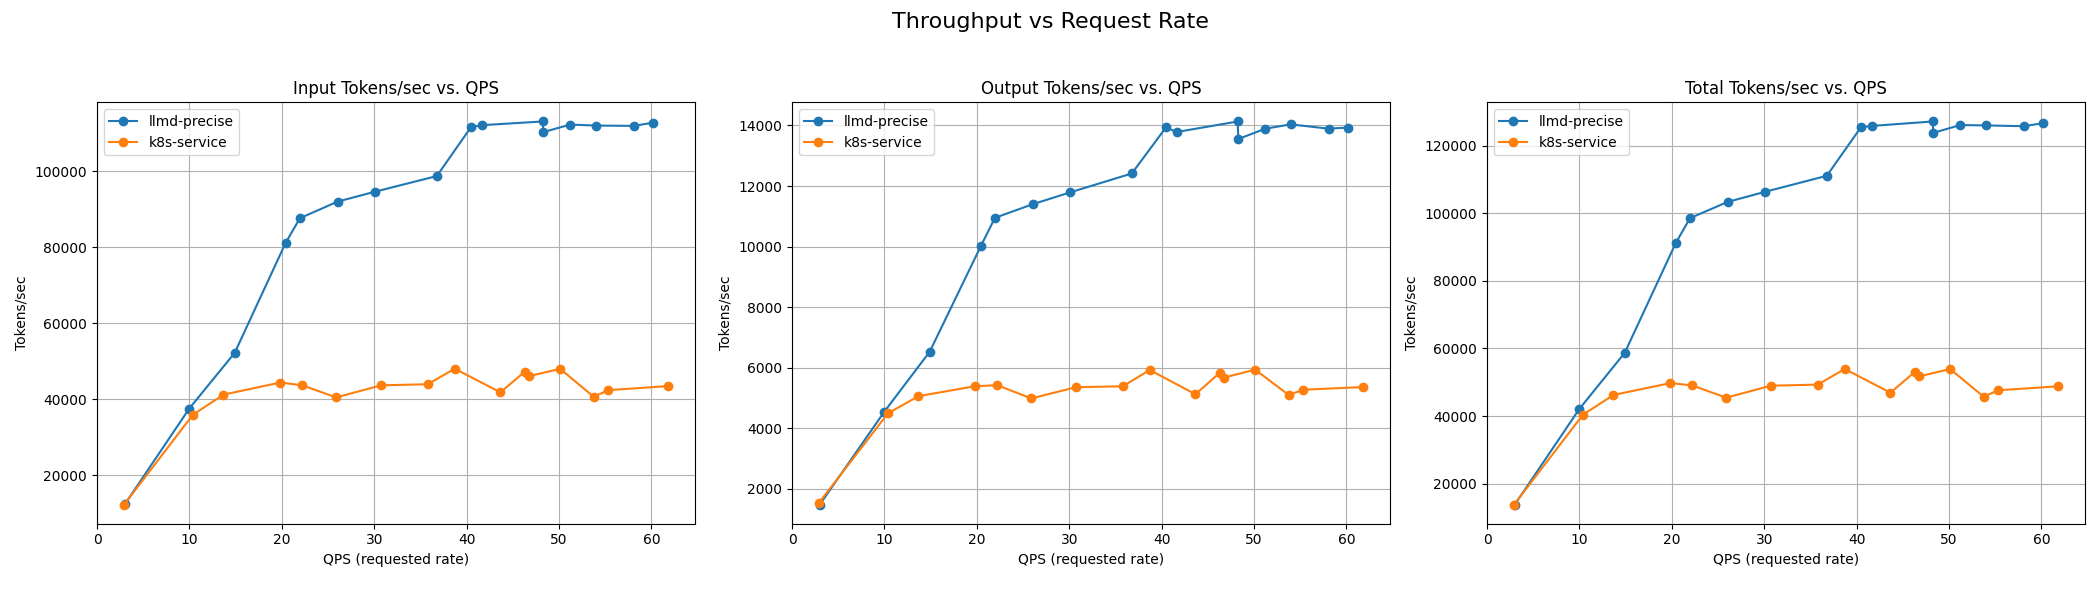
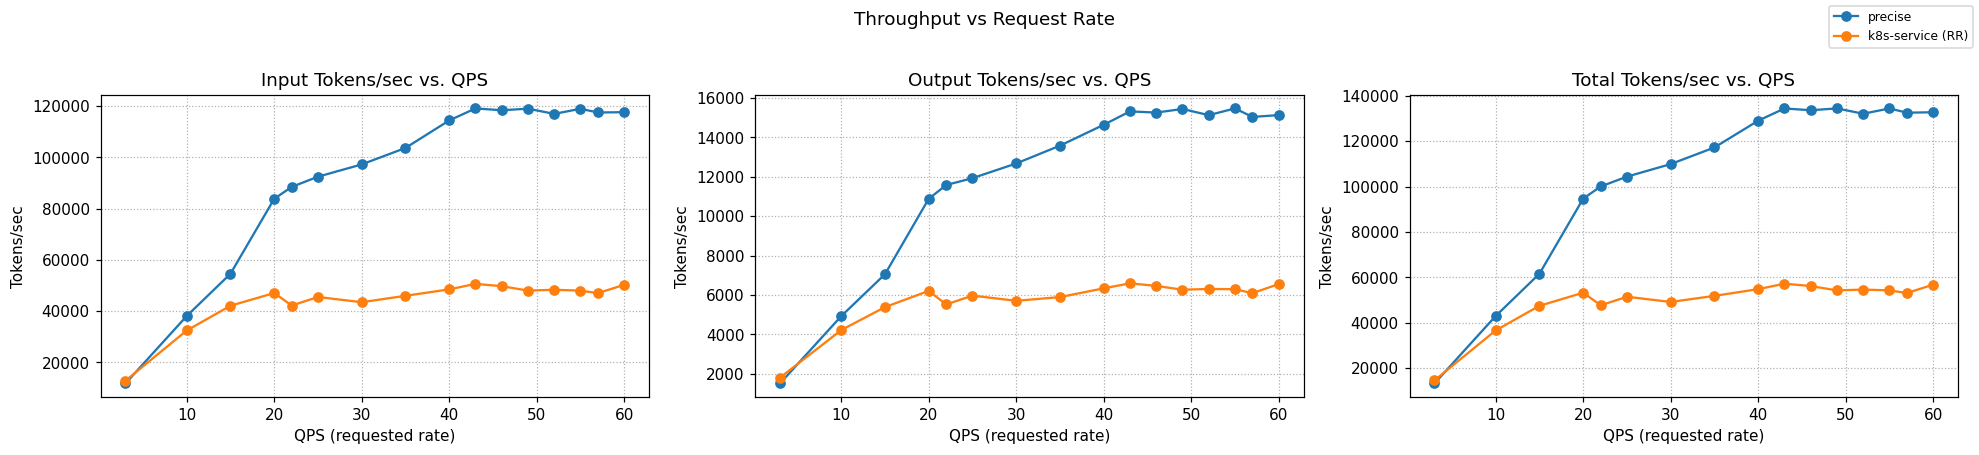
[Guides] update precise prefix-cache routing guide's benchmark data (#1462)
* update benchmark data

* address comment

---------

diff --git a/guides/precise-prefix-cache-aware/README.md b/guides/precise-prefix-cache-aware/README.md
@@ -187,7 +187,7 @@ curl -X POST http://${IP}/v1/completions \
 
 ## Benchmarking
 
-The benchmark launches a pod (`llmdbench-harness-launcher`) that uses `inference-perf` with a shared-prefix synthetic workload. Each experiment is saved under the specified output folder, e.g. `./results/<experiment ID>/inference-perf_<experiment ID>_shared_prefix_precise-guide-<model name>`. See the [benchmark instructions doc](../../helpers/benchmark.md) for details.
+The benchmark launches a pod (`llmdbench-harness-launcher`) that uses `inference-perf` with a shared-prefix synthetic workload. Each experiment is saved under the specified output folder, e.g. `./results/<experiment ID>/inference-perf_<experiment ID>_precise-guide-<model name>`. See the [benchmark instructions doc](../../helpers/benchmark.md) for details.
 
 ### 1. Prepare the Benchmarking Suite
 
@@ -240,57 +240,60 @@ The benchmark runs on 16× H100 GPUs, distributed across 8 model servers (2 H100
 metrics:
   latency:
     request_latency:
-      mean: 63.34
-      p50: 60.84
-      p90: 75.70
-      p99: 77.97
+      mean: 56.51
+      p50:  56.20
+      p90:  64.43
+      p99:  72.82
       units: s
     time_to_first_token:
-      mean: 0.192
-      p50: 0.178
-      p90: 0.260
-      p99: 0.564
+      mean: 0.714
+      p50:  0.532
+      p90:  1.534
+      p99:  2.670
       units: s
     time_per_output_token:
-      mean: 0.063
-      p50: 0.061
-      p90: 0.075
-      p99: 0.078
+      mean: 0.0558
+      p50:  0.0555
+      p90:  0.0632
+      p99:  0.0720
       units: s/token
-  requests:
-    failures: 0
-    input_length: {mean: 7584}
-    output_length: {mean: 937}
-    total: 1500
+    inter_token_latency:
+      mean: 0.0558
+      p50:  0.0351
+      p90:  0.1164
+      p99:  0.2527
+      units: s/token
   throughput:
-    requests_per_sec: 14.87
-    output_tokens_per_sec: 13932.0
-    total_tokens_per_sec: 126727.5
-  time:
-    duration: 24.92
+    requests_per_sec:      15.52
+    output_tokens_per_sec: 15132.8
+    total_tokens_per_sec:  132740.7
 ```
 
 </details>
 
 ### Comparing LLM-d Scheduling to a Simple Kubernetes Service
 
-Graphs below are from `inference-perf --analyze` comparing the precise path to a stock Kubernetes service routing directly to the vLLM pods.
+Graphs below compare the precise path to a stock Kubernetes Service that round-robins requests across the same 8 vLLM pods (no EPP, no scoring).
 
+<img src="./benchmark-results/throughput_vs_qps.png" width="900" alt="Throughput vs QPS">
 <img src="./benchmark-results/latency_vs_qps.png" width="900" alt="Latency vs QPS">
-<img src="./benchmark-results/throughput_vs_qps.png" width="450" alt="Throughput vs QPS">
 
-Stage at `rate=60`:
+Summary across the full ladder (rates 3 → 60):
 
-- **Throughput**: Requests/sec **+159.5%**; Output tokens/sec **+159.8%**
-- **Latency**: TTFT (mean) **-99.5%**; E2E request latency (mean) **-39.9%**
-- **Per-token speed**: Inter-token latency (mean) **-10.4%** (faster)
+| Metric              | k8s service (RR) | LLM-d Precise | Δ% vs k8s |
+| :------------------ | :--------------- | :------------ | :-------- |
+| Output tokens/sec   | 5,722            | 12,223        | +113.6%   |
+| Requests/sec        | 35.87            | 35.89         | ≈ 0%      |
+| TTFT mean (s)       | 58.10            | 0.606         | −98.96%   |
+| TTFT p90 (s)        | 107.43           | 1.076         | −99.00%   |
+| ITL mean (ms)       | 44.0             | 47.0          | +6.8%     |
 
-| Metric                  | k8s (Mean) | llm-d precise (Mean) | Δ (llm-d − k8s) | Δ% vs k8s |
-| :---------------------- | :--------- | :------------------- | :-------------- | :-------- |
-| Requests/sec            | 5.7306     | 14.8719              | +9.1413         | +159.5%   |
-| Input tokens/sec        | 43,417.86  | 112,795.47           | +69,377.61      | +159.8%   |
-| Output tokens/sec       | 5,362.16   | 13,931.99            | +8,569.83       | +159.8%   |
-| Total tokens/sec        | 48,780.02  | 126,727.46           | +77,947.44      | +159.8%   |
-| Request latency (s)     | 105.4133   | 63.3376              | -42.0757        | -39.9%    |
-| TTFT (s)                | 34.9145    | 0.1916               | -34.7229        | -99.5%    |
-| Inter-token latency (ms)| 70.42      | 63.07                | -7.35           | -10.4%    |
+Saturation stage `rate=60`:
+
+| Metric              | k8s service (RR) | LLM-d Precise | Δ% vs k8s |
+| :------------------ | :--------------- | :------------ | :-------- |
+| Output tokens/sec   | 6,551            | 15,133        | +131.0%   |
+| Requests/sec        | 60.41            | 60.90         | +0.8%     |
+| TTFT mean (s)       | 75.59            | 0.714         | −99.06%   |
+| TTFT p90 (s)        | 138.66           | 1.534         | −98.89%   |
+| ITL mean (ms)       | 45.0             | 56.0          | +24.4%    |
